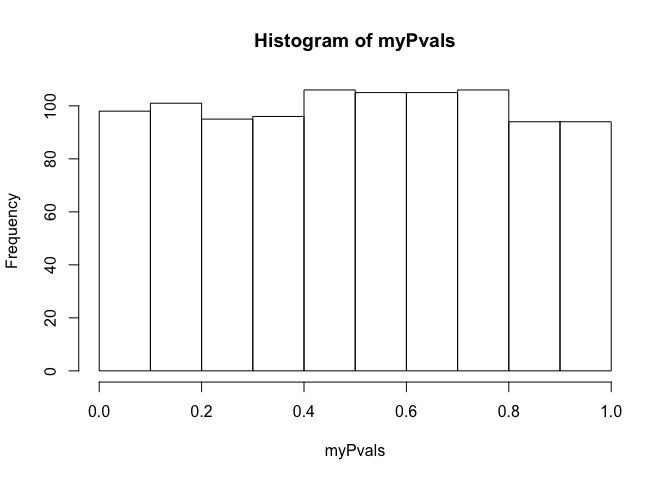
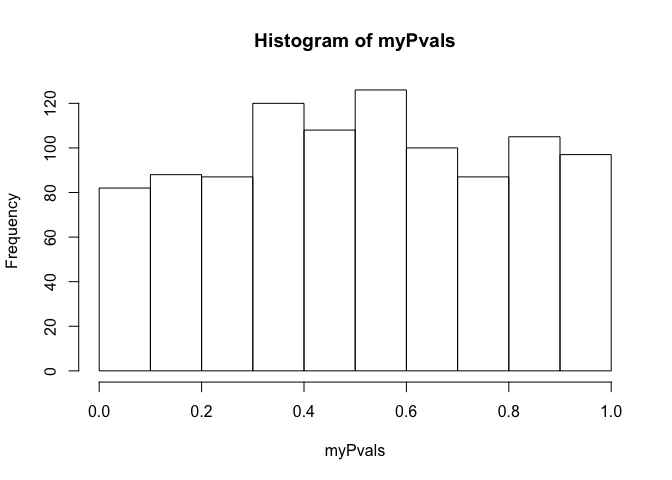
change

diff --git a/HW2/Untitled.md b/HW2/Untitled.md
@@ -116,24 +116,40 @@ myVals = rbinom(1000, n, mut_p)
 head(myVals, 25)
 ```
 
-    ##  [1] 5057 4994 4982 5088 5032 4989 4926 5044 4967 5043 5087 4982 4966 4993 5026
-    ## [16] 4992 5051 4962 4903 4953 5027 5021 5082 5029 4915
+    ##  [1] 5028 4941 4893 5010 5049 5042 4903 4919 5071 5010 4961 5008 4936 5018 5070
+    ## [16] 5054 5025 4971 4953 5023 4993 5000 4936 5031 5016
 
 #### (3B) What is the expected mean and variance of the vector in (3A). Show that the actual mean and variance are close to the expected mean and variance.
 
 ``` r
+# sample mean
 myVals_mean = mean(myVals)
 myVals_mean
 ```
 
-    ## [1] 5001.819
+    ## [1] 5000.755
 
 ``` r
+# expected mean
+exMean
+```
+
+    ## [1] 5000
+
+``` r
+# sample var
 myVals_var = var(myVals)
 myVals_var
 ```
 
-    ## [1] 2498.443
+    ## [1] 2324.626
+
+``` r
+# expected var
+exSD
+```
+
+    ## [1] 2500
 
 #### (3C) Take the vector that results from (3A). For each element in that vector, calculate a p-value with binom.test(….)$p.value for the null hypothesis that the frequency of the allele in the population for that experiment is 1/2. Graph the histogram of all of those p-values. What distribution would you expect? Is that what you see?
 
